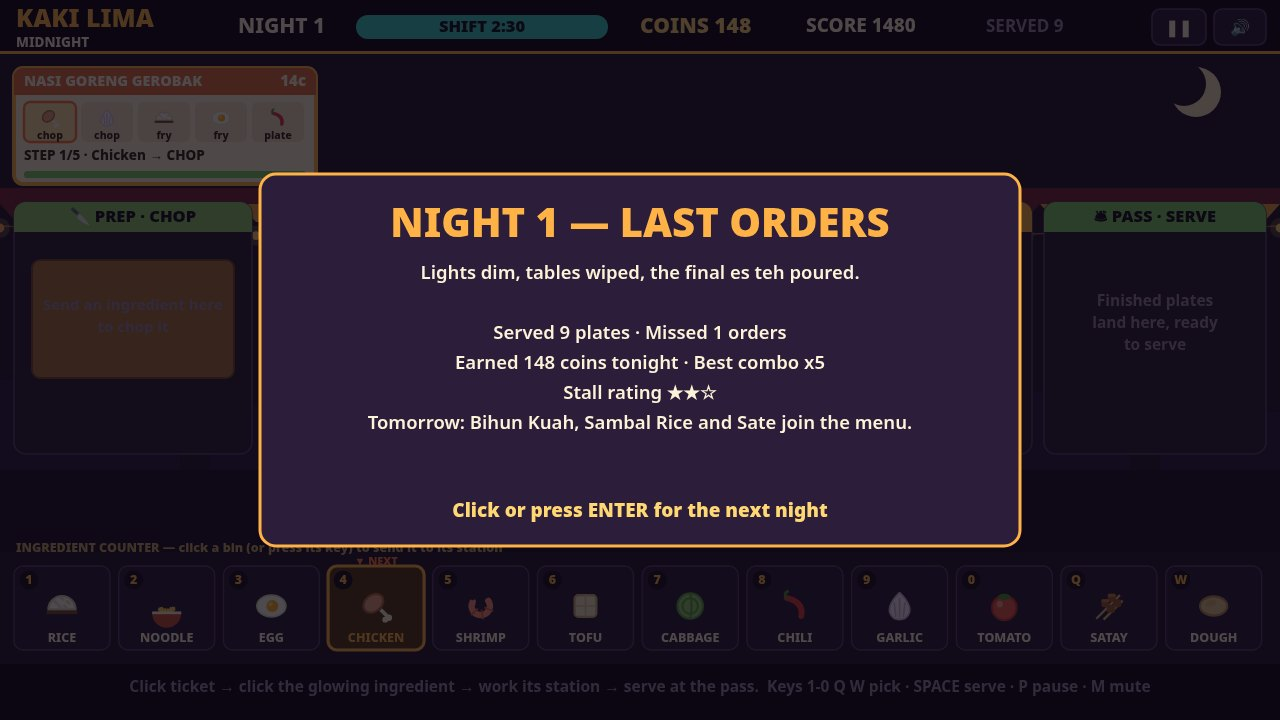
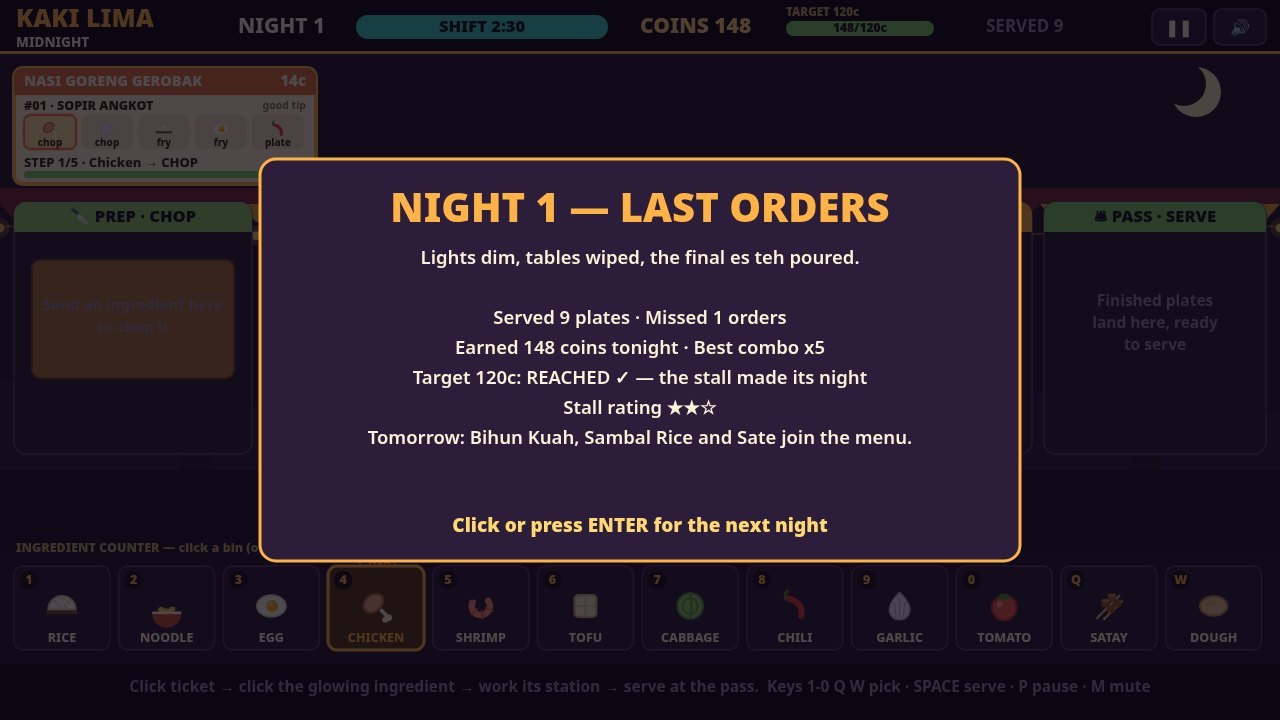
Customer personas with ticket numbers, and a per-night earnings target in the HUD graded at last orders

diff --git a/game/src/render.js b/game/src/render.js
@@ -183,7 +183,13 @@ export function createRenderer(canvas) {
     if (frac > 0.01) { roundRect(ctx, 356, 15, Math.max(24, 252 * frac), 24, 12); ctx.fill(); }
     text(ctx, `SHIFT ${mm}:${ss}`, 482, 27.5, 16.5, frac > 0.62 ? '#14101f' : PALETTE.text, 'center', 900);
     text(ctx, `COINS ${state.coins}`, 640, 27, 21, '#ffd873', 'left', 900);
-    text(ctx, `SCORE ${state.score}`, 806, 27, 19, PALETTE.text, 'left', 800);
+    // Shift target: tonight's earnings goal, filling as the till grows.
+    const targetFrac = Math.min(1, state.dayCoins / state.targetCoins);
+    text(ctx, `TARGET ${state.targetCoins}c`, 786, 13, 11.5, PALETTE.muted, 'left', 900);
+    ctx.fillStyle = '#3a2a4d'; roundRect(ctx, 786, 21, 148, 15, 7.5); ctx.fill();
+    ctx.fillStyle = targetFrac >= 1 ? PALETTE.good : PALETTE.amber;
+    if (targetFrac > 0.01) { roundRect(ctx, 786, 21, Math.max(15, 148 * targetFrac), 15, 7.5); ctx.fill(); }
+    text(ctx, `${state.dayCoins}/${state.targetCoins}c`, 860, 28.5, 12, '#14101f', 'center', 900);
     if (state.combo >= 2) {
       text(ctx, `COMBO x${state.combo} 🔥`, 986, 27, 19, PALETTE.flame, 'left', 900);
     } else {
@@ -209,10 +215,12 @@ export function createRenderer(canvas) {
     ctx.fillRect(x, y + 18, w, 9);
     text(ctx, order.dish.name.toUpperCase(), x + 10, y + 14, 14.5, '#fff7e0', 'left', 900);
     text(ctx, `${order.dish.price}c`, x + w - 10, y + 14, 15, '#fff7e0', 'right', 900);
+    text(ctx, `#${String(order.ticketNo).padStart(2, '0')} · ${order.persona.name}`, x + 10, y + 38, 12.5, PALETTE.ink, 'left', 900);
+    text(ctx, order.persona.trait, x + w - 10, y + 38, 10.5, '#8a7648', 'right', 700);
     if (order.ready) {
-      text(ctx, '★ READY TO SERVE ★', x + w / 2, y + 56, 21, '#3d7a27', 'center', 900);
-      text(ctx, 'click the plate at the PASS →', x + w / 2, y + 80, 14.5, PALETTE.ink, 'center', 700);
-      drawPlate(ctx, x + w / 2, y + 100, 23, order, 1);
+      text(ctx, '★ READY TO SERVE ★', x + w / 2, y + 66, 20, '#3d7a27', 'center', 900);
+      text(ctx, 'click the plate at the PASS →', x + w / 2, y + 88, 13.5, PALETTE.ink, 'center', 700);
+      drawPlate(ctx, x + w / 2, y + 104, 20, order, 1);
     } else {
       // Ingredient chips for every step; done steps are ticked and dimmed.
       const steps = order.dish.steps;
@@ -222,13 +230,13 @@ export function createRenderer(canvas) {
         const done = index < order.stepIndex;
         const current = index === order.stepIndex;
         ctx.fillStyle = done ? '#d8cfb2' : current ? '#ffe1a1' : '#efe3c2';
-        roundRect(ctx, cx0, y + 34, chipW, 40, 6); ctx.fill();
+        roundRect(ctx, cx0, y + 47, chipW, 34, 6); ctx.fill();
         if (current) { ctx.strokeStyle = PALETTE.flame; ctx.lineWidth = 2.4; ctx.stroke(); }
-        drawIngredientIcon(ctx, stepDef.ingredient, cx0 + chipW / 2, y + 50, 24);
-        text(ctx, STATIONS[stepDef.station].short, cx0 + chipW / 2, y + 68, 10.5, PALETTE.ink, 'center', 800);
-        if (done) text(ctx, '✓', cx0 + chipW - 8, y + 41, 13, '#3d7a27', 'center', 900);
+        drawIngredientIcon(ctx, stepDef.ingredient, cx0 + chipW / 2, y + 61, 21);
+        text(ctx, STATIONS[stepDef.station].short, cx0 + chipW / 2, y + 75, 10, PALETTE.ink, 'center', 800);
+        if (done) text(ctx, '✓', cx0 + chipW - 8, y + 54, 12, '#3d7a27', 'center', 900);
       });
-      text(ctx, `STEP ${Math.min(order.stepIndex + 1, steps.length)}/${steps.length} · ${INGREDIENT_BY_ID[steps[Math.min(order.stepIndex, steps.length - 1)].ingredient].name} → ${STATIONS[steps[Math.min(order.stepIndex, steps.length - 1)].station].short.toUpperCase()}`, x + 10, y + 88, 13.5, PALETTE.ink, 'left', 800);
+      text(ctx, `STEP ${Math.min(order.stepIndex + 1, steps.length)}/${steps.length} · ${INGREDIENT_BY_ID[steps[Math.min(order.stepIndex, steps.length - 1)].ingredient].name} → ${STATIONS[steps[Math.min(order.stepIndex, steps.length - 1)].station].short.toUpperCase()}`, x + 10, y + 95, 13, PALETTE.ink, 'left', 800);
       // Patience bar.
       const ratio = Math.max(0, order.patience / order.patienceMax);
       ctx.fillStyle = '#d8cfb2'; roundRect(ctx, x + 10, y + h - 13, w - 20, 7, 3.5); ctx.fill();
@@ -499,6 +507,9 @@ export function createRenderer(canvas) {
         '',
         `Served ${extras.summary.served} plates · Missed ${extras.summary.missed} orders`,
         `Earned ${extras.summary.dayCoins} coins tonight · Best combo x${extras.summary.bestCombo}`,
+        extras.summary.dayCoins >= extras.summary.targetCoins
+          ? `Target ${extras.summary.targetCoins}c: REACHED ✓ — the stall made its night`
+          : `Target ${extras.summary.targetCoins}c: missed by ${extras.summary.targetCoins - extras.summary.dayCoins}c — the stars feel it`,
         `Stall rating ${starsText}`,
         extras.summary.day >= 2 ? 'The menu grows: new dishes join the board.' : 'Tomorrow: Bihun Kuah, Sambal Rice and Sate join the menu.',
       ], `NIGHT ${extras.summary.day} — LAST ORDERS`, 'Click or press ENTER for the next night');

diff --git a/game/src/world.js b/game/src/world.js
@@ -6,7 +6,14 @@
 // time; tips come from patience left; streaks build a combo multiplier.
 
 import { COOK, DAY, SCORE } from './config.js';
-import { DISHES } from './data.js';
+import { DISHES, PERSONAS } from './data.js';
+
+// The night's earnings target: Night 1 asks 120 coins (a decent cook reaches
+// it from the Night-1 menu alone), then +40 a night as the menu and the rush
+// grow. The summary grades the night on served ratio AND this target.
+export function targetFor(day) {
+  return 80 + 40 * day;
+}
 
 export const EVENT_SERVE = 1;
 export const EVENT_EXPIRE = 2;
@@ -37,6 +44,8 @@ export function createWorld(random) {
     messageTimer: 0,
     rushAnnounced: false,
     lastServe: null,
+    ticketSeq: 0,
+    targetCoins: targetFor(1),
   };
 
   function dishesForToday() {
@@ -57,9 +66,13 @@ export function createWorld(random) {
     const dish = forcedDishId
       ? pool.find((entry) => entry.id === forcedDishId) || pool[0]
       : pool[Math.floor(random() * pool.length)];
-    const patience = patienceFor() * (0.9 + random() * 0.25);
+    const persona = PERSONAS[Math.floor(random() * PERSONAS.length)];
+    const patience = patienceFor() * persona.patienceMult * (0.9 + random() * 0.25);
+    state.ticketSeq += 1;
     const order = {
       id: nextOrderId,
+      ticketNo: state.ticketSeq,
+      persona,
       dish,
       stepIndex: 0,
       qualities: [],
@@ -225,7 +238,7 @@ export function createWorld(random) {
     if (!order || !order.ready) return { ok: false, reason: 'not-ready' };
     const quality = averageQuality(order);
     const patienceRatio = Math.max(0, order.patience / order.patienceMax);
-    const tip = Math.round(order.dish.price * SCORE.tipFraction * patienceRatio * quality);
+    const tip = Math.round(order.dish.price * SCORE.tipFraction * patienceRatio * quality * order.persona.tipMult);
     const comboBonus = state.combo >= 2 ? Math.min(10, state.combo * SCORE.comboStepBonus - 2) : 0;
     const earned = order.dish.price + tip + comboBonus;
     state.coins += earned;
@@ -321,9 +334,10 @@ export function createWorld(random) {
   function stars() {
     if (state.served === 0) return 0;
     const ratio = state.served / Math.max(1, state.served + state.missed);
-    if (ratio >= 0.85 && state.dayCoins >= 120) return 3;
-    if (ratio >= 0.65 && state.dayCoins >= 70) return 2;
-    if (ratio >= 0.4) return 1;
+    const metTarget = state.dayCoins >= state.targetCoins;
+    if (ratio >= 0.8 && metTarget) return 3;
+    if (ratio >= 0.55 && state.dayCoins >= state.targetCoins * 0.7) return 2;
+    if (ratio >= 0.35 || metTarget) return 1;
     return 0;
   }
 
@@ -341,6 +355,8 @@ export function createWorld(random) {
     state.combo = 0;
     state.rushAnnounced = false;
     state.lastServe = null;
+    state.ticketSeq = 0;
+    state.targetCoins = targetFor(state.day);
   }
 
   function resetAll() {
@@ -351,6 +367,8 @@ export function createWorld(random) {
     state.bestCombo = 0;
     nextDay();
     state.day = 1;
+    state.targetCoins = targetFor(1);
+    state.ticketSeq = 0;
   }
 
   return {

diff --git a/game/src/data.js b/game/src/data.js
@@ -70,6 +70,23 @@ export const DISHES = [
 
 export const DISH_BY_ID = Object.fromEntries(DISHES.map((dish) => [dish.id, dish]));
 
+// Who eats at a kaki lima stall after midnight: one persona per ticket,
+// drawn at random when the order lands. A persona nudges the order a little —
+// the ojol driver is in a hurry but tips big, the student is patient but
+// broke — so two identical dishes are never quite the same ticket.
+export const PERSONAS = [
+  { id: 'ojol', name: 'DRIVER OJOL', trait: 'big tipper', tipMult: 1.3, patienceMult: 0.85 },
+  { id: 'satpam', name: 'SATPAM SHIFT MALAM', trait: 'patient', tipMult: 1.0, patienceMult: 1.15 },
+  { id: 'mahasiswa', name: 'MAHASISWA BEGADANG', trait: 'patient', tipMult: 0.8, patienceMult: 1.2 },
+  { id: 'pedagang', name: 'PEDAGANG SEBELAH', trait: 'fellow keeper', tipMult: 1.0, patienceMult: 1.0 },
+  { id: 'parkir', name: 'TUKANG PARKIR', trait: 'easygoing', tipMult: 0.9, patienceMult: 1.1 },
+  { id: 'warkop', name: 'IBU WARUNG KOPI', trait: 'generous', tipMult: 1.1, patienceMult: 1.0 },
+  { id: 'band', name: 'ANAK BAND LATIHAN', trait: 'post-rehearsal', tipMult: 0.9, patienceMult: 1.05 },
+  { id: 'kurir', name: 'KURIR TENGAH MALAM', trait: 'top tipper', tipMult: 1.25, patienceMult: 0.8 },
+  { id: 'apotek', name: 'PENJAGA APOTEK', trait: 'calm shift', tipMult: 1.0, patienceMult: 1.1 },
+  { id: 'angkot', name: 'SOPIR ANGKOT', trait: 'good tip', tipMult: 1.15, patienceMult: 0.9 },
+];
+
 export const FLAVOR = {
   tagline: 'Nyalakan kompor, layani malam — the street eats, you cook.',
   titleLine: "The carts roll out at dusk and the wok's already hot.",

diff --git a/game/src/main.js b/game/src/main.js
@@ -38,7 +38,7 @@ if (testMode) {
     renderer.draw(world.state, scene.screen, 2.4, {
       audioMuted: false,
       stars: world.stars ? 2 : 2,
-      summary: { served: world.state.served, missed: world.state.missed, dayCoins: world.state.dayCoins, bestCombo: world.state.bestCombo, day: world.state.day },
+      summary: { served: world.state.served, missed: world.state.missed, dayCoins: world.state.dayCoins, bestCombo: world.state.bestCombo, day: world.state.day, targetCoins: world.state.targetCoins },
       ...FLAVOR,
     });
     painted += 1;
@@ -62,6 +62,7 @@ if (testMode) {
         dayCoins: world.state.dayCoins,
         bestCombo: world.state.bestCombo,
         day: world.state.day,
+        targetCoins: world.state.targetCoins,
       },
       ...FLAVOR,
     };

diff --git a/game/src/shots.js b/game/src/shots.js
@@ -55,6 +55,7 @@ export function stageShot(name, world) {
     s.elapsed = 88;
     s.timeLeft = 62;
     s.coins = 86;
+    s.dayCoins = 86;
     s.score = 860;
     s.combo = 4;
     s.served = 6;
@@ -84,6 +85,7 @@ export function stageShot(name, world) {
   s.elapsed = 34;
   s.timeLeft = 116;
   s.coins = 37;
+  s.dayCoins = 37;
   s.score = 370;
   s.combo = 2;
   s.served = 3;
